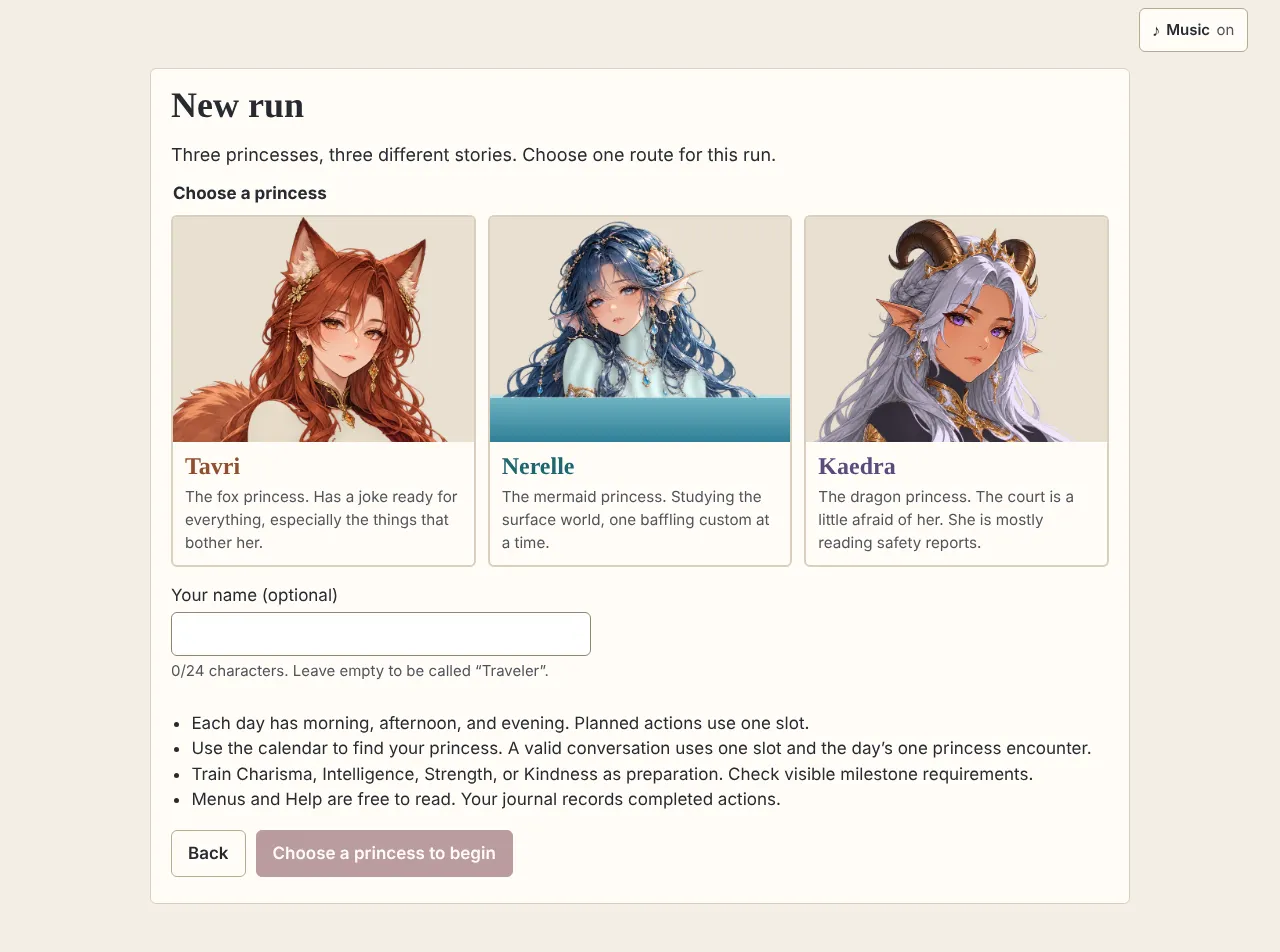
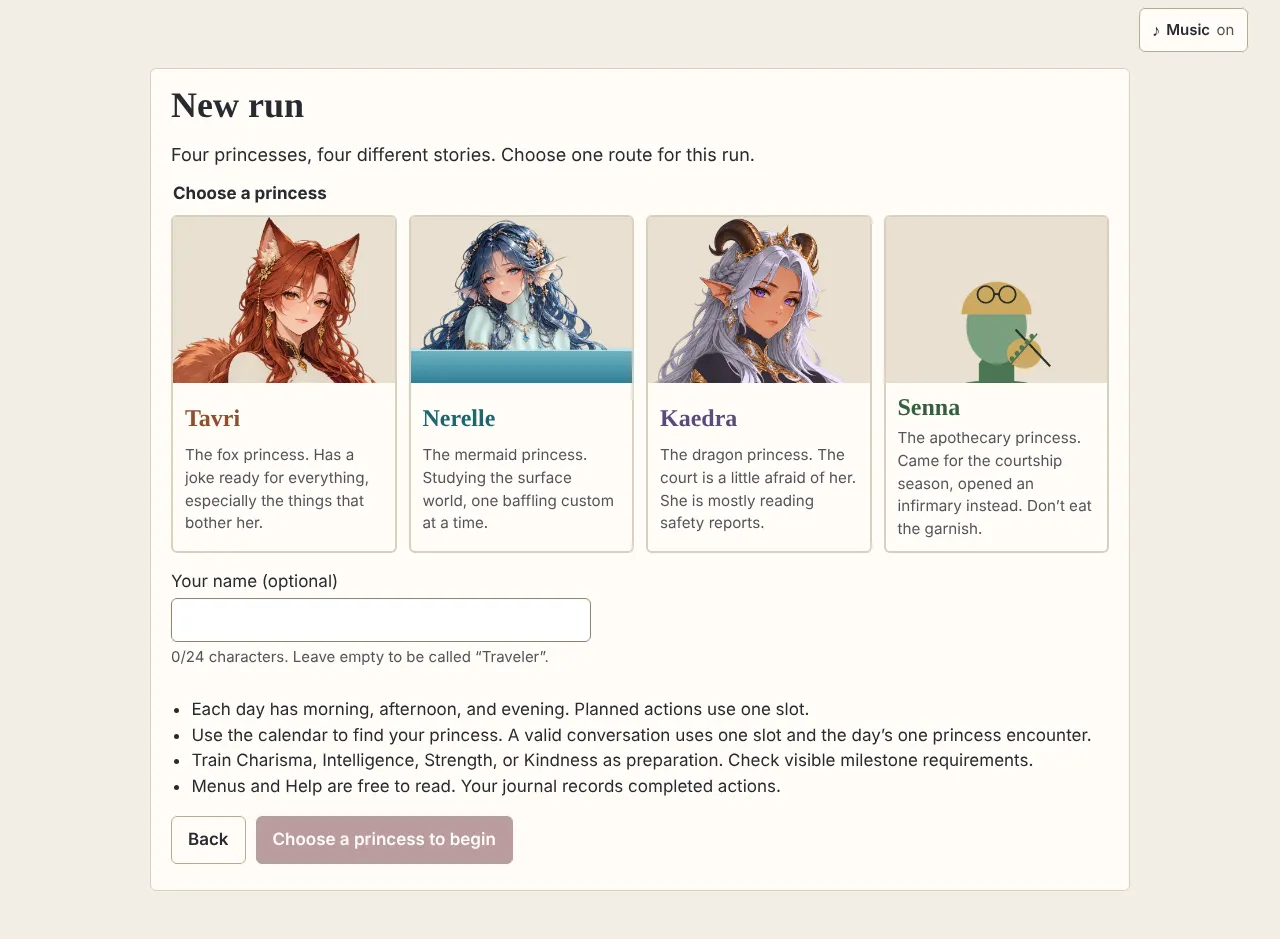
WIP Senna route: report section, refreshed screenshots
Claude-Session: https://claude.ai/code/session_01PabpVYL4YG9kbXd8QKsnPm

diff --git a/docs/IMPLEMENTATION_REPORT.md b/docs/IMPLEMENTATION_REPORT.md
@@ -137,6 +137,34 @@ How it works:
 - The files are the owner's, byte for byte, named by content hash (`public/audio/`) and cached long-term. They add 2.9 MB, fetched only when their screen is reached.
 - Tests: `tests/unit/music.test.ts` (which screen plays what, locating the music, trimming, file integrity) and an end-to-end test that emulates the browser's click-to-start rule.
 
+**A fourth princess: Senna.** The owner asked for "a character route who is like mao mao from the apothecary diaries" and chose a princess-apothecary named Senna. She is an original character in that broad mould: a deadpan, precise herbalist who is unimpressed by royalty and quietly kind. Her name, look, homeland, cast and story are new, and she is all-ages (poisons are only ever identified to prevent harm).
+
+- **Content.** Everything is in `content/routes/SEN/`:
+  - `ROUTE.json`: authority, schedule, stats, optional-event thresholds, staging, minor cast, and the "Four princesses" intro string;
+  - `BIBLE.md` and `OUTLINE.md`;
+  - 25 scenes in the same shape as each frozen route: 18 ordinary, 2 optional, milestone and retry, proposal and retry, epilogue.
+- **Validation.** The compiler loads the folder after the dialogue revision (`scripts/lib/routes.ts`). It validates the exact scene set, ID patterns, speakers, expressions, quoting, option rules and global ID uniqueness. Heart values and costs are derived from the scene kind and the option class, never typed by hand.
+- **How it was written.** Three writers drafted the scenes from the bible and outline. An independent editor then reviewed them, and the notes were applied. The house-style audit flags none of Senna's 456 lines.
+- **Answer order.** Her scenes vary where the right answer sits; the frozen routes keep their documented order (see §7).
+- **Schedule.** Intelligence and Kindness, the one stat pair no other princess uses. She meets the player five days a week:
+
+  | Day | Slots | Location |
+  |---|---|---|
+  | Mon | morning, afternoon | Adventurers' Guild |
+  | Tue | afternoon, evening | Royal Library |
+  | Thu | morning, afternoon | Town Square |
+  | Fri | afternoon, evening | Moonwater Quay |
+  | Sat | morning, afternoon | Royal Gardens |
+
+  Her optional events need Intelligence ≥ 3 before the milestone and Charisma ≥ 3 after it.
+- **Winnable.** She has two witness playthroughs in the same format as the frozen ones (`content/routes/SEN/fixtures/`), and they replay through the real engine:
+  - the perfect run wins on Day 15;
+  - the impaired run wins on Day 26, with four missed meetings, four wrong answers, a failed milestone and a failed proposal.
+
+  A browser test also plays her route to a win through the UI.
+- **Saves.** The save format moves to version 2 (`ordinaryNext.SEN` and her two optional-event flags). Version 1 saves in the browser and version 1 backups are upgraded on read (`src/persistence/migrations.ts`), and an upgraded run replays its journal to the same state. Tests cover old backups, old stored records, and tampering with an old backup.
+- **Art.** Her five portraits and milestone illustration are clearly-labelled placeholders (`art-src/routes/SEN/ART.json`, status `placeholder`; alt text says so). Generating real art needs the Hugging Face connector's image tools, which were still switched off (`gradio=none`) for this session. The prompts are ready in `docs/art/SENNA_ART_PROMPTS.md`, and the art pipeline ships route art with its status and hashes.
+
 **Kaedra's look.** She now has the alternate ash-silver hair and violet eyes from her bible. Her red cape and wings are recoloured to match, and her route colour moves from red to violet. Her eyebrows were left red-brown (one line in her specs to change). Face structure is unchanged (see §7). The commissioning brief for new art is `docs/art/CHARACTER_REDESIGN_BRIEF.md`.
 
 **Fixes from an independent review of the original build, made alongside.** Each of these has a test:
